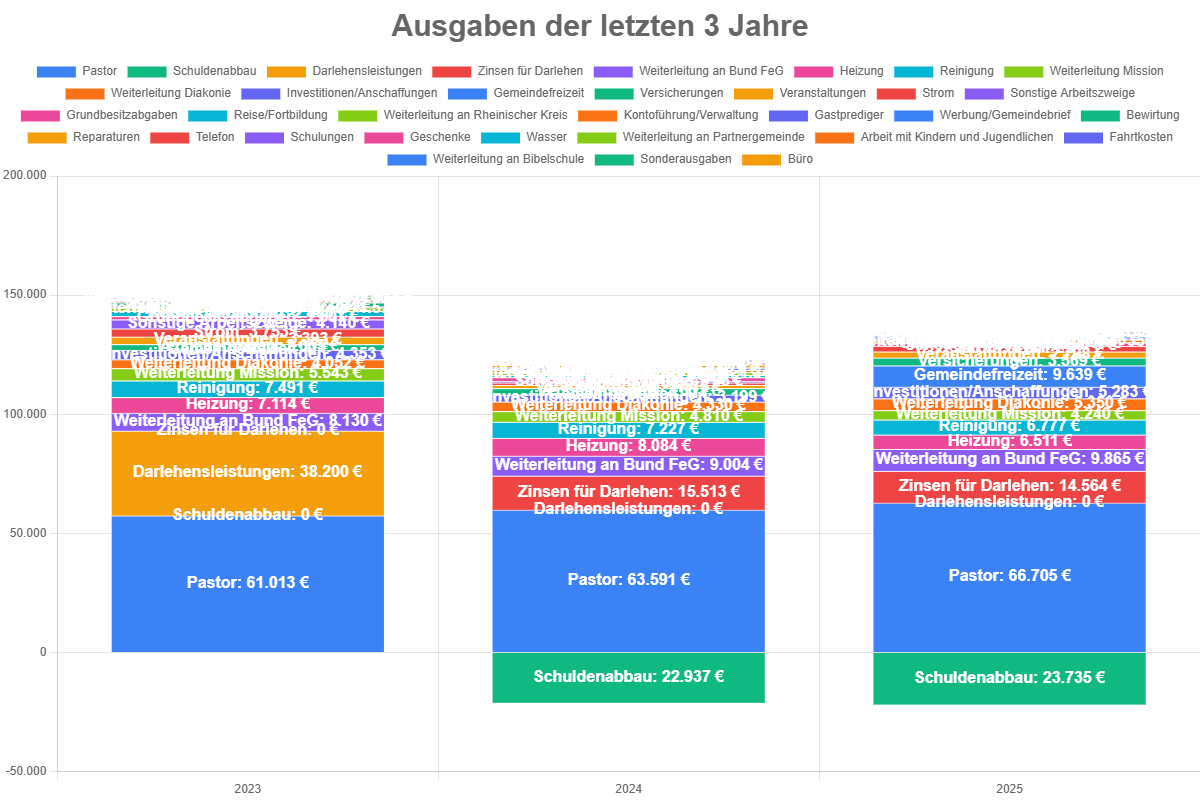
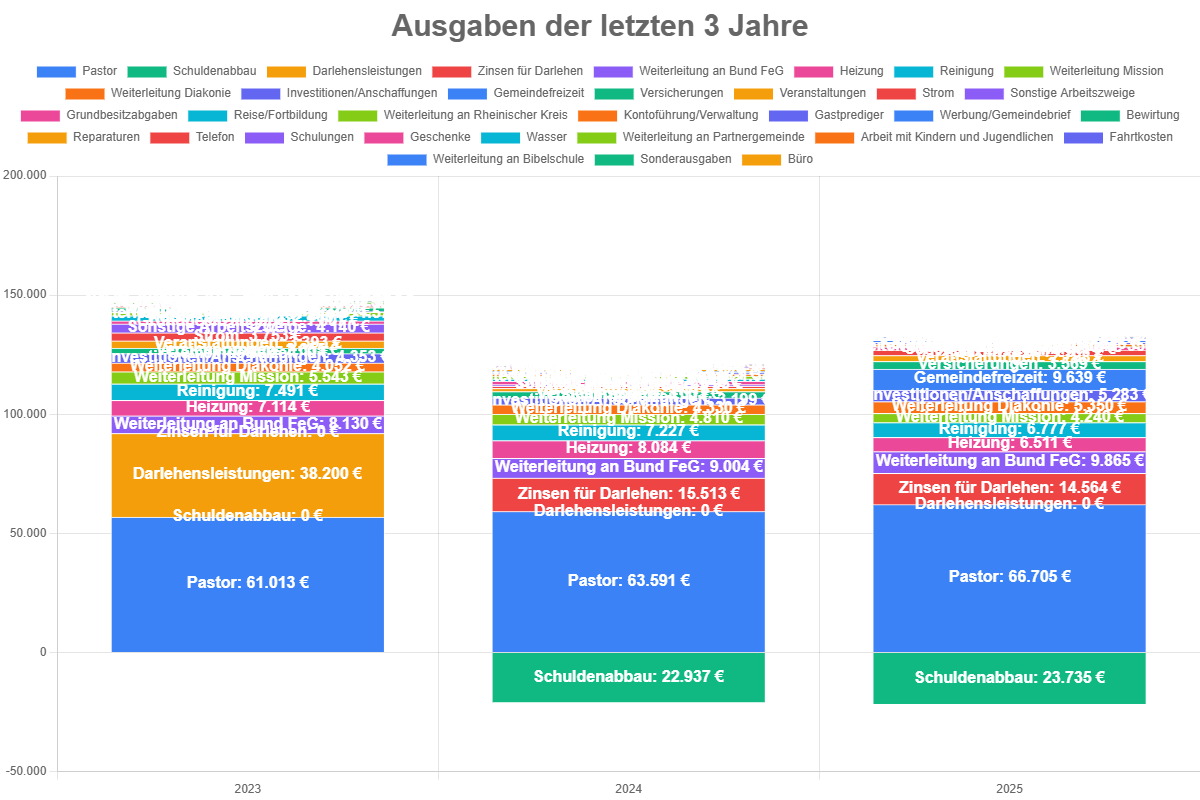
fix: Die Zahlen für die Ausgaben stimmen jetzt.

diff --git a/generate-presentation.js b/generate-presentation.js
@@ -940,6 +940,9 @@ async function createPresentation() {
                 <a href="#" onclick="loadPage('Ausgaben_2025.html', this); return false;">Ausgaben 2025</a>
             </div>
             <div class="nav-item">
+              <a href="#" onclick="loadPage('AusgabenTab_${currentYear-1}.html', this); return false;">AusgabenTabelle</a>
+            </div>
+            <div class="nav-item">
                 <a href="#" onclick="loadPage('Einnahmen_2025.html', this); return false;">Einnahmen 2025</a>
             </div>
             <div class="nav-item">
@@ -978,6 +981,10 @@ async function createPresentation() {
                 <div class="card" onclick="loadPage('Checkliste.html', document.querySelector('[onclick*=Checkliste]'))">
                   <h3>📝 Checkliste</h3>
                   <p>Jährliche Schritte zur Aktualisierung der Daten.</p>
+                </div>
+                <div class="card" onclick="loadPage('AusgabenTab_${currentYear-1}.html', document.querySelector('[onclick*=AusgabenTabelle]'))">
+                  <h3>📋 AusgabenTabelle</h3>
+                  <p>Tabellarische Darstellung der Ausgaben für ${currentYear-1}.</p>
                 </div>
                 <div class="card" onclick="loadPage('Entwicklung_2025.html', document.querySelector('[onclick*=Entwicklung]'))">
                     <h3>📈 Entwicklung 2025</h3>
@@ -1098,6 +1105,46 @@ async function createPresentation() {
       logToFile(`Einnahmen-Tabelle erstellt: ${outPath}`);
     }
   } catch (e) { logToFile('Fehler beim Erzeugen Einnahmen-Tabelle: ' + (e && e.message ? e.message : String(e))); }
+
+  // Create Ausgaben-Tab similarly
+  try {
+    const reportYear = currentYear - 1;
+    const ausJson = path.join(process.cwd(), 'Daten', 'result', `Ausgaben_${reportYear}.json`);
+    if (fs.existsSync(ausJson)) {
+      const data = JSON.parse(fs.readFileSync(ausJson, 'utf8')) || {};
+      const years = Object.keys(data).sort();
+      const categorySet = new Set();
+      years.forEach(year => {
+        Object.keys(data[year] || {}).forEach(cat => categorySet.add(cat));
+      });
+      const categories = Array.from(categorySet).sort((a, b) => a.localeCompare(b, 'de', { sensitivity: 'base' }));
+      const headers = ['Kategorie', ...years];
+      const escapeHtml = s => String(s === undefined || s === null ? '' : s).replace(/&/g,'&amp;').replace(/</g,'&lt;').replace(/>/g,'&gt;');
+      let formatGermanNumber = n => (Number(n||0).toFixed(2)).replace('.', ',').replace(/\B(?=(\d{3})+(?!\d))/g, '.');
+      try { const _utils = await import('./lib/utils.js'); if (_utils.formatGermanNumber) formatGermanNumber = _utils.formatGermanNumber; } catch (e) {}
+      const formatGermanInteger = value => {
+        const raw = formatGermanNumber(value);
+        return raw.endsWith(',00') ? raw.slice(0, -3) : raw;
+      };
+      const rows = categories.map(cat => {
+        const cells = years.map(y => {
+          const value = Number((data[y] && data[y][cat]) || 0);
+          return `<td>${escapeHtml(formatGermanInteger(value))}</td>`;
+        }).join('');
+        return `<tr><td>${escapeHtml(cat)}</td>${cells}</tr>`;
+      }).join('\n');
+      const totals = years.map(y => categories.reduce((sum, cat) => sum + (Number((data[y] && data[y][cat]) || 0)), 0));
+      const totalRow = '<tr>' + [`<td><strong>Gesamt</strong></td>`, ...totals.map(t => {
+        const raw = formatGermanInteger(t);
+        const withoutCents = raw.endsWith(',00') ? raw.slice(0, -3) : raw;
+        return `<td><strong>${escapeHtml(withoutCents)} €</strong></td>`;
+      })].join('') + '</tr>';
+      const tableHtml = `<!doctype html><html lang="de"><head><meta charset="utf-8"/><meta name="viewport" content="width=device-width,initial-scale=1"/><title>Ausgaben ${reportYear}</title><style>body{font-family:Arial,sans-serif;margin:12px}table{border-collapse:collapse;width:100%}th,td{border:1px solid #ddd;padding:6px;text-align:left;font-size:13px}th{background:#f3f4f6}</style></head><body><h1>Ausgaben ${reportYear}</h1><table><thead><tr>${headers.map(h=>`<th>${escapeHtml(h)}</th>`).join('')}</tr></thead><tbody>${rows}\n${totalRow}</tbody></table></body></html>`;
+      const outPath = path.join(process.cwd(), 'Daten', 'result', `AusgabenTab_${reportYear}.html`);
+      fs.writeFileSync(outPath, tableHtml, 'utf8');
+      logToFile(`Ausgaben-Tabelle erstellt: ${outPath}`);
+    }
+  } catch (e) { logToFile('Fehler beim Erzeugen Ausgaben-Tabelle: ' + (e && e.message ? e.message : String(e))); }
 
   // Create a simple annual checklist page (delegated to lib/checklist.js)
   try {

diff --git a/Daten/result/AusgabenTab_2025.html b/Daten/result/AusgabenTab_2025.html
@@ -1,0 +1,34 @@
+<!doctype html><html lang="de"><head><meta charset="utf-8"/><meta name="viewport" content="width=device-width,initial-scale=1"/><title>Ausgaben 2025</title><style>body{font-family:Arial,sans-serif;margin:12px}table{border-collapse:collapse;width:100%}th,td{border:1px solid #ddd;padding:6px;text-align:left;font-size:13px}th{background:#f3f4f6}</style></head><body><h1>Ausgaben 2025</h1><table><thead><tr><th>Kategorie</th><th>2023</th><th>2024</th><th>2025</th></tr></thead><tbody><tr><td>Arbeit mit Kindern und Jugendlichen</td><td>174</td><td>449</td><td>27</td></tr>
+<tr><td>Bewirtung</td><td>1.682</td><td>0</td><td>0</td></tr>
+<tr><td>Büro</td><td>88</td><td>0</td><td>114</td></tr>
+<tr><td>Darlehensleistungen</td><td>38.200</td><td>0</td><td>0</td></tr>
+<tr><td>Fahrtkosten</td><td>0</td><td>372</td><td>137</td></tr>
+<tr><td>Gastprediger</td><td>271</td><td>752</td><td>902</td></tr>
+<tr><td>Gemeindefreizeit</td><td>0</td><td>0</td><td>9.639</td></tr>
+<tr><td>Geschenke</td><td>660</td><td>404</td><td>225</td></tr>
+<tr><td>Grundbesitzabgaben</td><td>1.507</td><td>1.649</td><td>1.607</td></tr>
+<tr><td>Heizung</td><td>7.114</td><td>8.084</td><td>6.511</td></tr>
+<tr><td>Investitionen/Anschaffungen</td><td>4.353</td><td>3.199</td><td>5.283</td></tr>
+<tr><td>Kontoführung/Verwaltung</td><td>294</td><td>1.071</td><td>1.236</td></tr>
+<tr><td>Pastor</td><td>61.013</td><td>63.591</td><td>66.705</td></tr>
+<tr><td>Reinigung</td><td>7.491</td><td>7.227</td><td>6.777</td></tr>
+<tr><td>Reise/Fortbildung</td><td>2.400</td><td>1.085</td><td>0</td></tr>
+<tr><td>Reparaturen</td><td>189</td><td>1.098</td><td>291</td></tr>
+<tr><td>Schuldenabbau</td><td>0</td><td>-22.937</td><td>-23.735,19</td></tr>
+<tr><td>Schulungen</td><td>511</td><td>400</td><td>425</td></tr>
+<tr><td>Sonderausgaben</td><td>270</td><td>0</td><td>0</td></tr>
+<tr><td>Sonstige Arbeitszweige</td><td>4.140</td><td>795</td><td>0</td></tr>
+<tr><td>Strom</td><td>3.753</td><td>1.076</td><td>2.561</td></tr>
+<tr><td>Telefon</td><td>481</td><td>483</td><td>480</td></tr>
+<tr><td>Veranstaltungen</td><td>3.393</td><td>1.518</td><td>2.798</td></tr>
+<tr><td>Versicherungen</td><td>2.655</td><td>3.033</td><td>3.569</td></tr>
+<tr><td>Wasser</td><td>212</td><td>295</td><td>379</td></tr>
+<tr><td>Weiterleitung an Bibelschule</td><td>357</td><td>0</td><td>0</td></tr>
+<tr><td>Weiterleitung an Bund FeG</td><td>8.130</td><td>9.004</td><td>9.865</td></tr>
+<tr><td>Weiterleitung an Partnergemeinde</td><td>750</td><td>0</td><td>0</td></tr>
+<tr><td>Weiterleitung an Rheinischer Kreis</td><td>1.579</td><td>1.340</td><td>350</td></tr>
+<tr><td>Weiterleitung Diakonie</td><td>4.052</td><td>4.330</td><td>5.350</td></tr>
+<tr><td>Weiterleitung Mission</td><td>5.543</td><td>4.810</td><td>4.240</td></tr>
+<tr><td>Werbung/Gemeindebrief</td><td>273</td><td>632</td><td>896</td></tr>
+<tr><td>Zinsen für Darlehen</td><td>0</td><td>15.513</td><td>14.564</td></tr>
+<tr><td><strong>Gesamt</strong></td><td><strong>161.535 €</strong></td><td><strong>109.273 €</strong></td><td><strong>121.195,81 €</strong></td></tr></tbody></table></body></html>

diff --git a/Daten/result/index.html b/Daten/result/index.html
@@ -227,6 +227,9 @@
               <a href="#" onclick="loadPage('EinnahmenTab_2025.html', this); return false;">EinnahmenTabelle</a>
             </div>
             <div class="nav-item">
+              <a href="#" onclick="loadPage('AusgabenTab_2025.html', this); return false;">AusgabenTabelle</a>
+            </div>
+            <div class="nav-item">
                 <a href="#" onclick="loadPage('Entwicklung_2025.html', this); return false;">Entwicklung 2025</a>
             </div>
             <div class="nav-item">
@@ -259,6 +262,10 @@
                 <div class="card" onclick="loadPage('Checkliste.html', document.querySelector('[onclick*=Checkliste]'))">
                   <h3>📝 Checkliste</h3>
                   <p>Jährliche Schritte zur Aktualisierung der Daten.</p>
+                </div>
+                <div class="card" onclick="loadPage('AusgabenTab_2025.html', document.querySelector('[onclick*=AusgabenTabelle]'))">
+                  <h3>📋 AusgabenTabelle</h3>
+                  <p>Tabellarische Darstellung der Ausgaben für 2025.</p>
                 </div>
                 <div class="card" onclick="loadPage('Entwicklung_2025.html', document.querySelector('[onclick*=Entwicklung]'))">
                     <h3>📈 Entwicklung 2025</h3>
